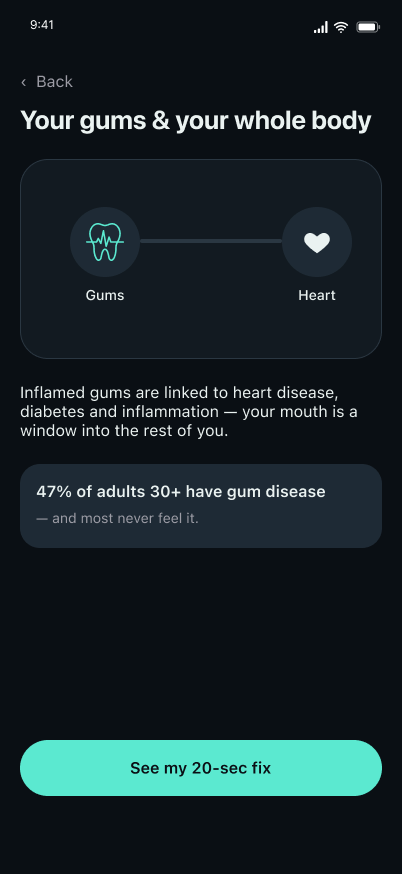
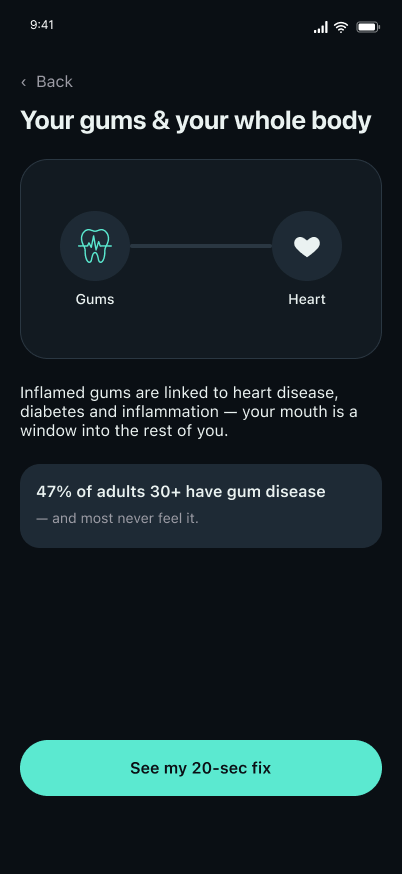
Symmetrize mouth-body diagram + align hotspots to measured art
- Diagram card was lopsided: 50px left / 30px right margins, tooth icon
  oversized vs heart (38 vs 30 in equal circles), connector 1px off the
  circle centers, group sitting high. Now 40/40 margins, tooth 34/heart 30,
  connector through the centers, labels centered under circles, group
  vertically centered. Re-exported mouthbody.png.
- Hotspots recalibrated against exact Figma geometry: Back capsules now
  hug the "‹ Back" label (were taller+wider than the text, reading as
  misaligned on hover), Score cards t 56.1→55.6, Today brush t 46→45.5.
  ASSET_V → 18.

Changed region(s): [[0.3582, 0.2471, 0.6866, 0.3089], [0.1791, 0.2471, 0.2985, 0.3707], [0.7164, 0.2471, 0.8358, 0.3707]]

diff --git a/app.js b/app.js
@@ -1,7 +1,7 @@
 // Mouth Vitals — interactive prototype navigation
 // Bump ASSET_V whenever the screen PNGs change so browsers fetch fresh art
 // (nginx caches png/js for 7d; the query string busts that cache).
-const ASSET_V = "17";
+const ASSET_V = "18";
 const v = (p) => `${p}?v=${ASSET_V}`;
 const SCREENS = [
   { id: "onboarding", img: v("assets/onboarding.png"), label: "Onboarding",
@@ -10,25 +10,25 @@ const SCREENS = [
   { id: "score", img: v("assets/score.png"), label: "Score",
     alt: "Home screen: your Mouth Vitals score is 82 out of 100, shown as a progress ring. Cards: Gums healthy, Breath fresh. Primary action: see today's fix.",
     hotspots: [
-      { l: 4.98, t: 56.1, w: 42.5, h: 11.0, to: "mouthbody", name: "Open Gums detail" },
-      { l: 52.5, t: 56.1, w: 42.5, h: 11.0, to: "breath", name: "Open Breath detail" },
+      { l: 4.98, t: 55.6, w: 42.5, h: 11.0, to: "mouthbody", name: "Open Gums detail" },
+      { l: 52.5, t: 55.6, w: 42.5, h: 11.0, to: "breath", name: "Open Breath detail" },
       { l: 4.98, t: 81.7, w: 90.0, h: 6.4, to: "today", name: "See today's fix" },
     ] },
   { id: "mouthbody", img: v("assets/mouthbody.png"), label: "Mouth-body",
     alt: "Education screen: your gums and your whole body — a diagram linking gums to the heart. 47 percent of adults 30 and older have gum disease. Primary action: see my 20-second fix.",
     hotspots: [
-      { l: 4.0, t: 7.2, w: 26.0, h: 4.6, to: "score", name: "Back to score" },
+      { l: 3.0, t: 7.3, w: 19.0, h: 4.0, to: "score", name: "Back to score" },  // hugs the "‹ Back" label (x20 y72 w~60 h19 in the 402×874 art)
       { l: 4.98, t: 84.7, w: 90.0, h: 6.4, to: "today", name: "See my 20-sec fix" },
     ] },
   { id: "breath", img: v("assets/breath.png"), label: "Breath",
     alt: "Breath check screen: result is Fresh, shown as a ring. Primary action: check now.",
     hotspots: [
-      { l: 4.0, t: 7.2, w: 26.0, h: 4.6, to: "score", name: "Back to score" },
+      { l: 3.0, t: 7.3, w: 19.0, h: 4.0, to: "score", name: "Back to score" },  // hugs the "‹ Back" label (x20 y72 w~60 h19 in the 402×874 art)
       { l: 4.98, t: 84.7, w: 90.0, h: 6.4, to: "score", name: "Check now" },
     ] },
   { id: "today", img: v("assets/today.png"), label: "Today",
     alt: "Today screen: your daily streak and today's 20-second fix — floss the back-left where your gums flag. Primary action: brush with Max.",
-    hotspots: [{ l: 4.98, t: 46.0, w: 90.0, h: 10.3, to: "breath", name: "Brush with Max" }] },
+    hotspots: [{ l: 4.98, t: 45.5, w: 90.0, h: 10.3, to: "breath", name: "Brush with Max" }] },
 ];
 
 const byId = (id) => SCREENS.find((s) => s.id === id);

diff --git a/index.html b/index.html
@@ -7,22 +7,22 @@
   <meta name="description" content="Mouth Vitals — a free, holistic mouth-body companion. Interactive hi-fi prototype for Docter & Gambit (Project DH)." />
   <meta name="theme-color" content="#070A0E" />
   <meta name="color-scheme" content="dark" />
-  <link rel="icon" href="assets/icon.svg?v=17" />
-  <link rel="apple-touch-icon" href="assets/icon.svg?v=17" />
+  <link rel="icon" href="assets/icon.svg?v=18" />
+  <link rel="apple-touch-icon" href="assets/icon.svg?v=18" />
   <meta property="og:type" content="website" />
   <meta property="og:title" content="Mouth Vitals — interactive prototype" />
   <meta property="og:description" content="A free, holistic mouth-body companion. Tap through the hi-fi flow." />
   <meta property="og:url" content="https://docter-gambit-app.ontwrpn.com/" />
-  <meta property="og:image" content="https://docter-gambit-app.ontwrpn.com/assets/score.png?v=17" />
+  <meta property="og:image" content="https://docter-gambit-app.ontwrpn.com/assets/score.png?v=18" />
   <meta name="twitter:card" content="summary_large_image" />
-  <link rel="stylesheet" href="styles.css?v=17" />
+  <link rel="stylesheet" href="styles.css?v=18" />
 </head>
 <body>
   <div class="bg" aria-hidden="true"></div>
 
   <main class="hero">
     <header class="intro">
-      <div class="brand"><img class="brand__mark" src="assets/mark.svg?v=17" alt="" aria-hidden="true" /> Mouth Vitals</div>
+      <div class="brand"><img class="brand__mark" src="assets/mark.svg?v=18" alt="" aria-hidden="true" /> Mouth Vitals</div>
       <h1 class="title">Dental care, reframed as a <span>relationship</span>.</h1>
       <p class="lede">A free, holistic mouth-body companion for Docter &amp; Gambit. Tap through the interactive hi-fi prototype.</p>
       <ul class="chips" role="list" aria-label="Highlights">
@@ -41,7 +41,7 @@
           <span class="phone__side phone__side--vol1" aria-hidden="true"></span>
           <span class="phone__side phone__side--vol2" aria-hidden="true"></span>
           <div class="phone__screen">
-            <img class="screen__img" id="screenImg" src="assets/onboarding.png?v=17" alt="App screen"
+            <img class="screen__img" id="screenImg" src="assets/onboarding.png?v=18" alt="App screen"
                  width="402" height="874" decoding="async" fetchpriority="high" draggable="false" />
             <div class="hotspots" id="hotspots"></div>
           </div>
@@ -63,6 +63,6 @@
     </div>
   </main>
 
-  <script src="app.js?v=17"></script>
+  <script src="app.js?v=18"></script>
 </body>
 </html>
